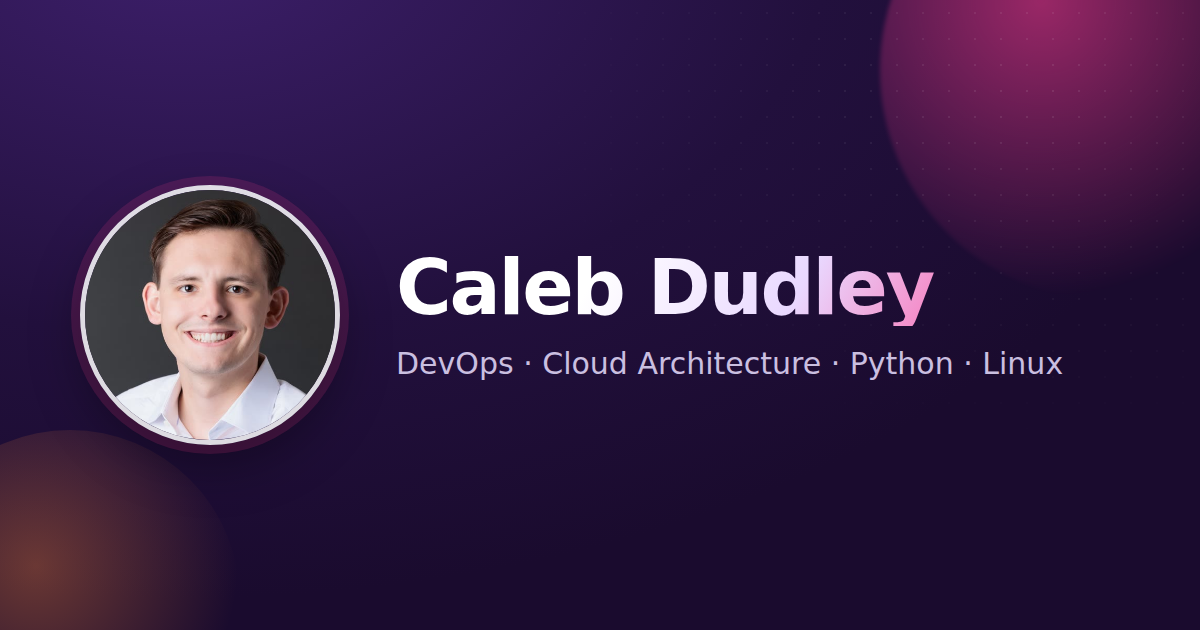
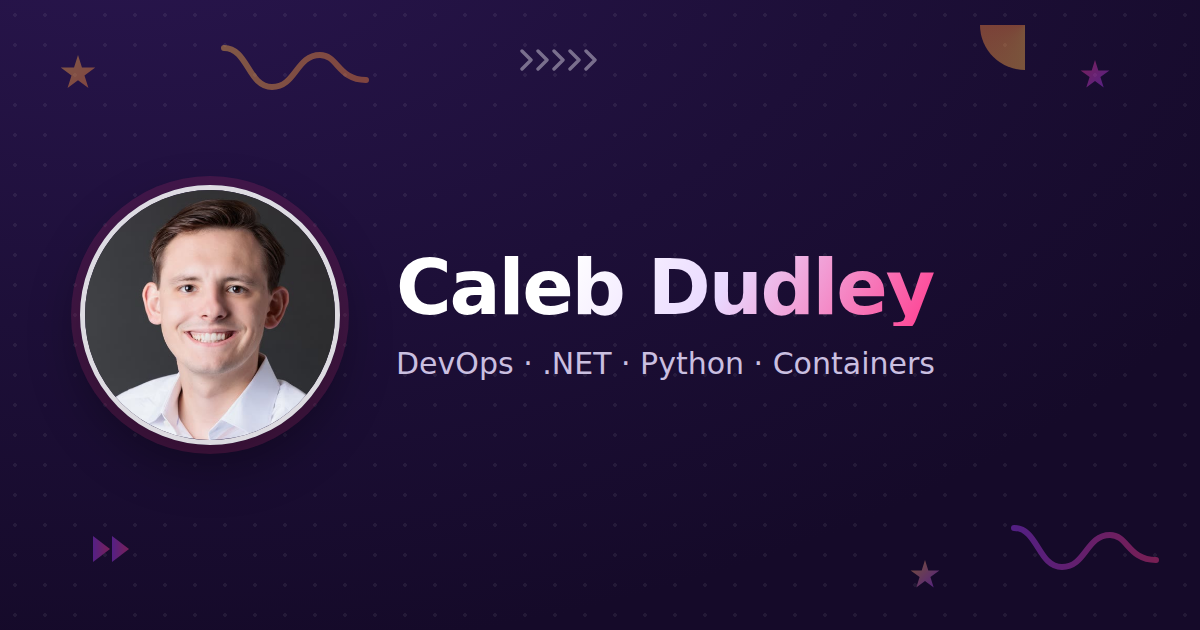
Re-render OG card with new hero design language (#8)
* Re-render OG card with the new hero design language

Old OG image still used the blurred/low-opacity blob background style
that was removed from the hero for looking hazy. Rebuilt it with the
same solid-shape motifs as the new hero illustration (stars, chevrons,
wavy line, quarter-pie), confined to the top/bottom margins so nothing
sits behind the photo or text.

* Change OG card tagline from Linux to Containers

* Publish personal-website launch post, update opening line

* Replace (wink) with actual wink emoji

diff --git a/content/blog/personal-website.md b/content/blog/personal-website.md
@@ -2,13 +2,12 @@
 title = "Launching my personal website"
 date = 2026-07-28
 description = "Staking out my claim on the internet: launching a personal website."
-draft = true
 +++
 
-I'm excited to finally launch a personal website instead of just pointing people at LinkedIn. 
+I'm staking out my claim on the internet: finally launching a personal website instead of just pointing people at LinkedIn. 
 
 
-I've heard an optimistic vision for the AI future - everybody is able to self-host open source tools and build their own software to get free of big tech control. So I guess this is me doing my part (wink)
+I've heard an optimistic vision for the AI future - everybody is able to self-host open source tools and build their own software to get free of big tech control. So I guess this is me doing my part 😉
 
 
 Built it the same way as the last few side projects: primarily driving Claude Code running on my project VPS from my phone. Bio, work history, a projects page linking out to the other things I've been building.
